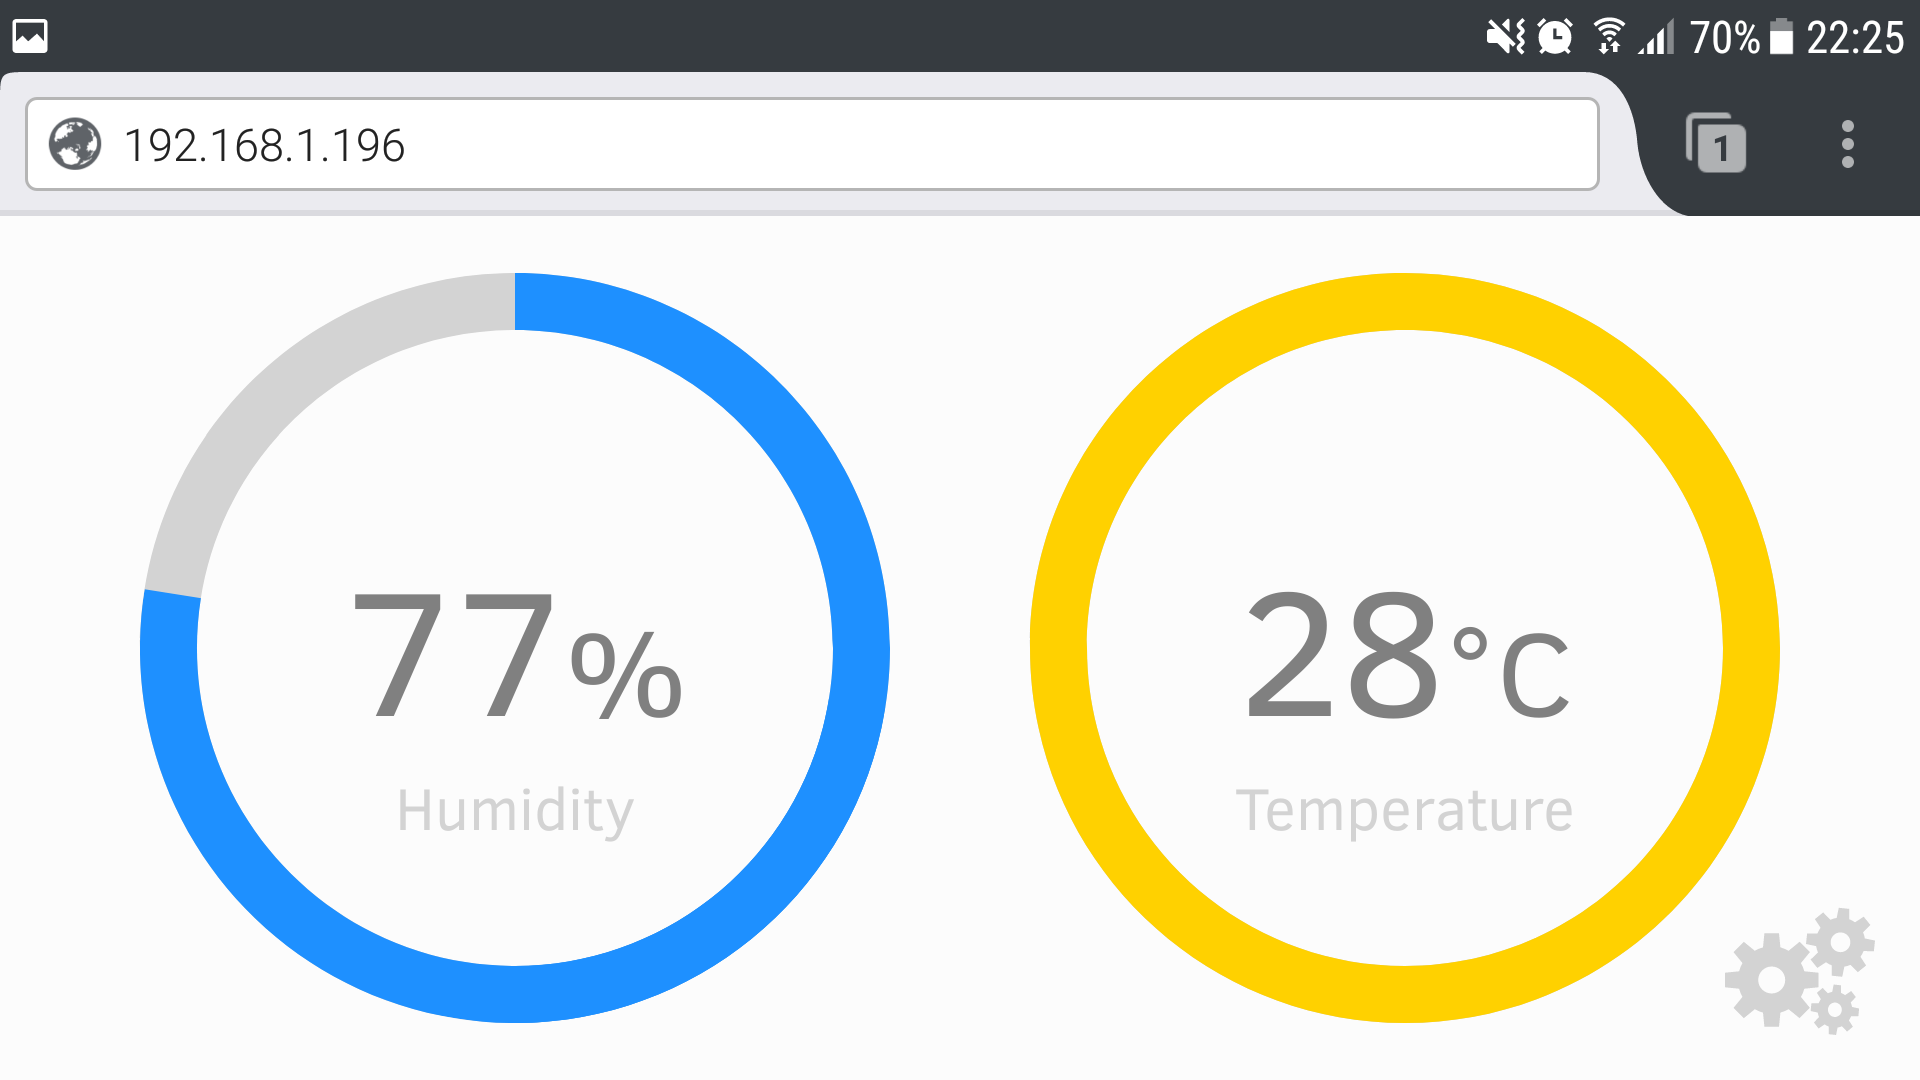
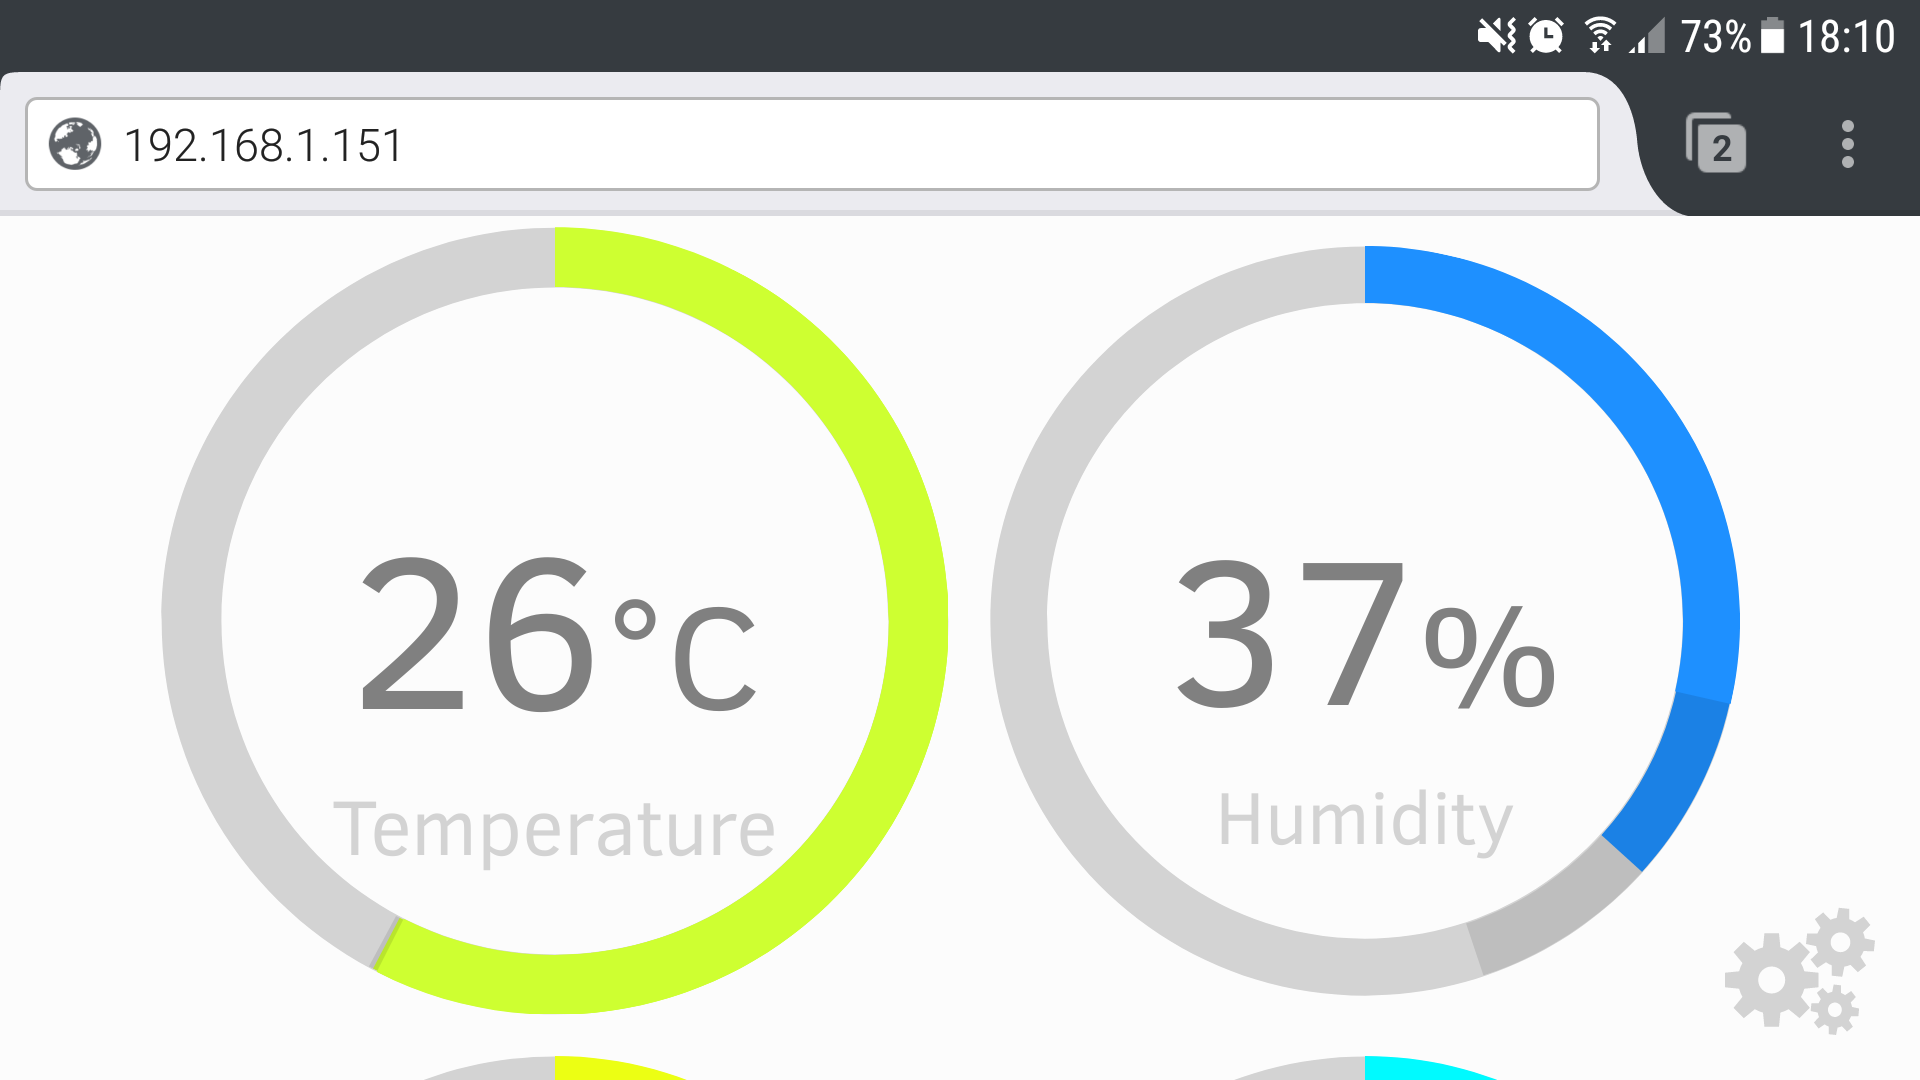
Updated the README.

diff --git a/README.md b/README.md
@@ -1,6 +1,6 @@
-# Climate Control
+# Spartan Sensor Mesh
 
-This is a spartan, web-enabled climate control unit based around an ESP8266 and DHT## sensors.
+This project uses several, connected ESP8266 boards to display various sensor readings in a clean and configurable way:
 
 <img src="./portrait.png" width="300"/>
 <img src="./landscape.png" height="300"/>
